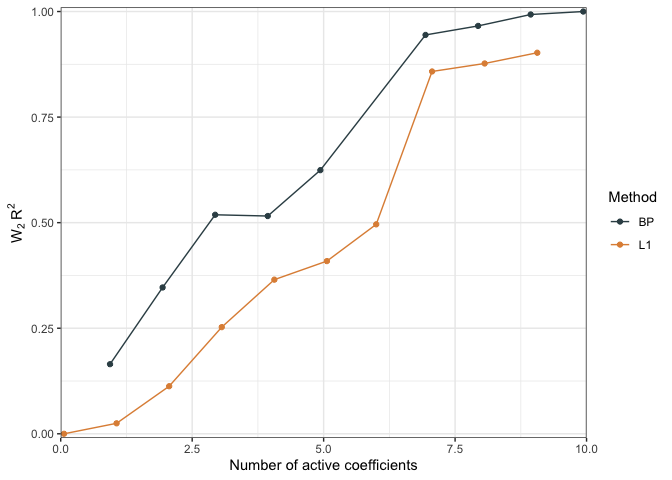
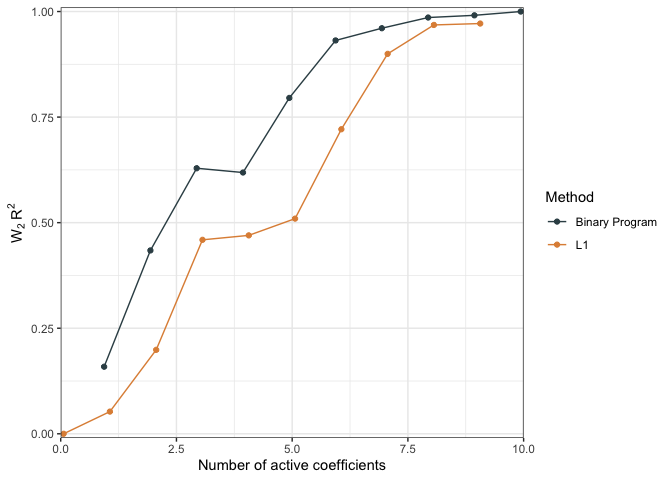
fix CPP errors

diff --git a/src/transport.cpp b/src/transport.cpp
@@ -148,7 +148,7 @@ void transport(const matrix & A, const matrix & B, const double p, const double 
   int N = A.cols();
   int M = B.cols();
   bool univ = false;
-  if ( method == "univariate" || (A.rows() == 1 & B.rows() == 1 & N == M) ){
+  if ( method == "univariate" || ( (A.rows() == 1 && B.rows() == 1) && N == M ) ){
     univ = true;
   }
   if ( univ ) {

diff --git a/README.md b/README.md
@@ -23,7 +23,7 @@ In the our package, if $\mu$ is the original prediction from the
 original model, such as from a Bayesian linear regression or a neural
 network, then we seek to find a new prediction $\nu$ that minimizes the
 Wasserstein distance between the two:
-$$ \text{argmin}_\nu \left(\inf_{\pi \in \Pi(\mu,\nu)} \int_{\mathbb{R}^d \times \mathbb{R}^d} \|x-y\|^p d\pi(x,y)\right)^{1/p}$$
+$$ \text{argmin}_\nu W_p(\mu,\nu)$$
 
 ## Installation
 
@@ -79,7 +79,7 @@ function (measuring distance between the reduced models and the original
 model) and then generate a plot
 
 ``` r
-dc <- distCompare(models = list("L1" = fit.p2, "BP" = fit.p2.bp),
+dc <- distCompare(models = list("L1" = fit.p2, "Binary Program" = fit.p2.bp),
                   target = list(parameters = post_beta,
                                   predictions = post_mu))
 plot(dc)
